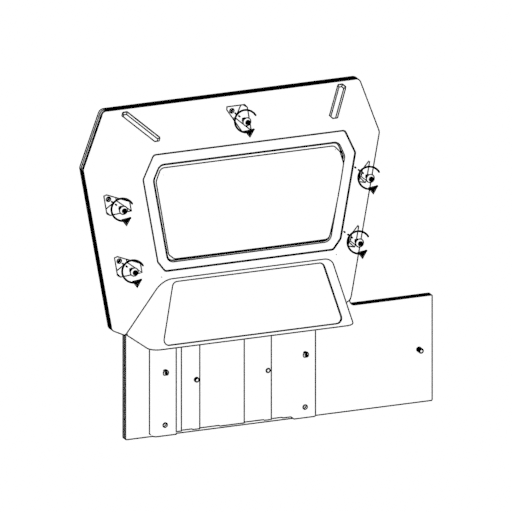
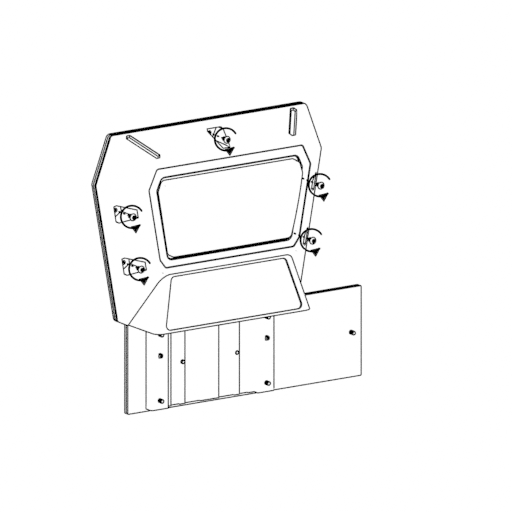
统一侧键润滑教程整体视图并移除图中文字

Changed region(s): [[0.1562, 0.125, 0.8438, 0.875], [0.8125, 0.6562, 0.8438, 0.7188]]

diff --git a/docs/simgeki2/maintenance/sidekeys/lubricatespring.md b/docs/simgeki2/maintenance/sidekeys/lubricatespring.md
@@ -2,22 +2,26 @@
 
 准备梅花螺丝刀、两个 H3.0 内六角扳手和润滑油。
 
+以下图片在同一侧键整体模型上示意各步骤，按箭头方向拆卸。
+
 1. 拆下固定装饰壳的 5 颗梅花螺丝。
 
-   ![拆下装饰壳的5颗梅花螺丝](./imgs/lubricatespring/1.png ':size=512')
+   ![在侧键整体模型上标出装饰壳的5颗梅花螺丝](./imgs/lubricatespring/1.png ':size=512')
 
 2. 取下装饰壳。
 
-   ![取下装饰壳](./imgs/lubricatespring/2.png ':size=512')
+   ![从侧键整体上取下装饰壳，其余结构保留](./imgs/lubricatespring/2.png ':size=512')
 
 3. 使用两个 H3.0 内六角扳手，从两端拧开转轴。
 
-   ![使用两个H3.0内六角扳手拧开双端转轴，拆分示意](./imgs/lubricatespring/3.png ':size=512')
+   ![在侧键整体上示意双端转轴的拆分位置](./imgs/lubricatespring/3.png ':size=512')
 
 4. 移除侧键本身。
 
-   ![转轴已移除，取下侧键，弹片保留在支架上](./imgs/lubricatespring/4.png ':size=512')
+   ![在侧键整体上取下按键，基体和弹片仍保留](./imgs/lubricatespring/4.png ':size=512')
 
 5. 向弹片上端与侧键接触的一面涂抹润滑油，涂抹范围约 1 cm 高。
 
-   ![弹片长端朝上，只涂上端约10mm高的接触区](./imgs/lubricatespring/5.png ':size=512')
+   放大框对应整体图中标出的弹片上端。
+
+   ![整体定位与局部放大：只涂弹片上端约10mm高的接触区](./imgs/lubricatespring/5.png ':size=512')
